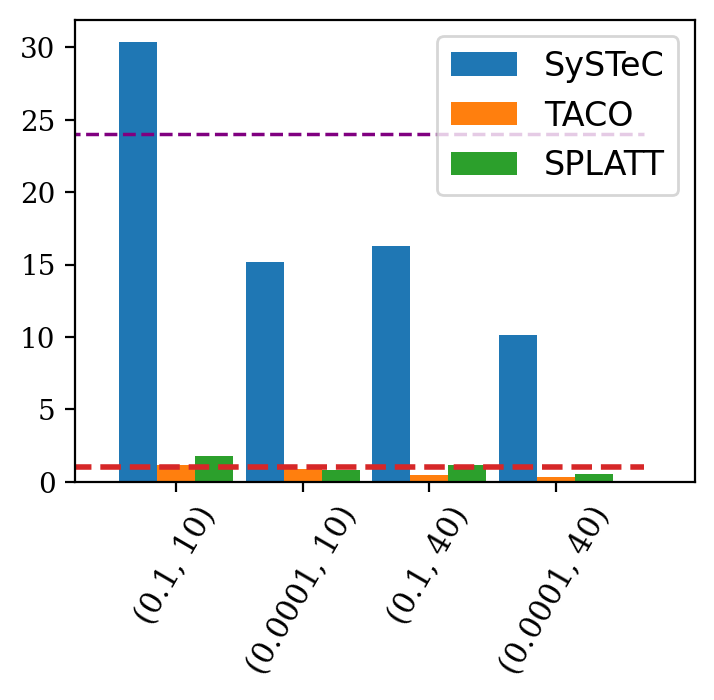
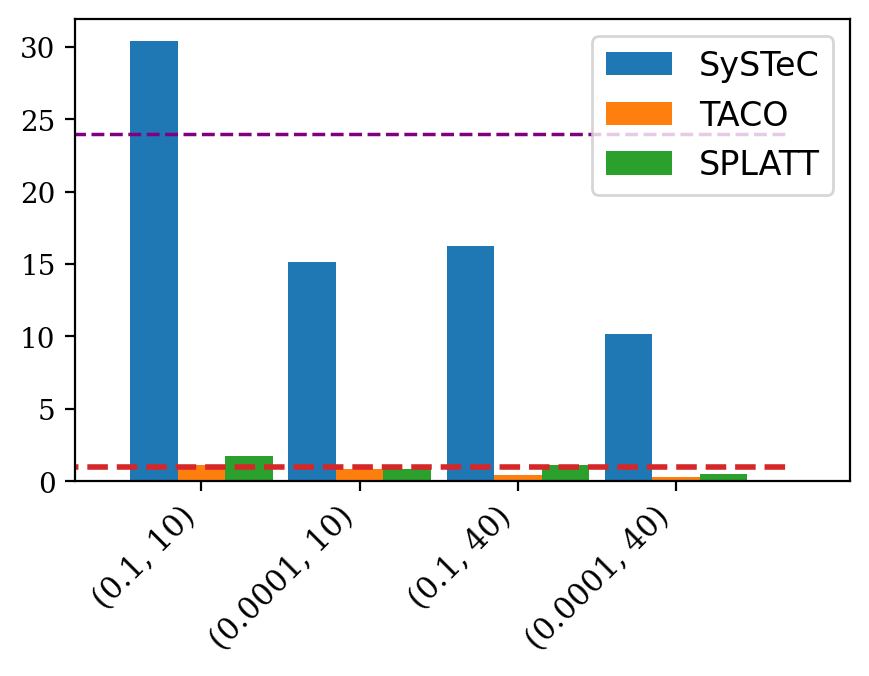
roughly good

diff --git a/kernels/cgo_chart.py b/kernels/cgo_chart.py
@@ -77,6 +77,7 @@ def make_grouped_bar_chart(labels, x_axis, data, colors = None, labeled_groups =
         ax.set_xlabel(x_label, fontsize=14)
     ax.set_xticks(x + width * (len(labels) - 1)/2, x_axis)
     ax.tick_params(axis='x', which='major', labelsize=11, labelrotation=60, labelfontfamily=fontfamily)
+    ax.set_xticklabels(ax.get_xticklabels(), rotation = 45, ha="right")
     ax.tick_params(axis='y', labelfontfamily=fontfamily, labelsize=10)
     if legend_labels:
         ax.legend(legend_labels, loc='upper right', ncols=1, fontsize=12)
@@ -102,7 +103,7 @@ all_formats_chart("ssymv/cgo_ssymv_results.json", use_suitesparse_name, "ssymv_f
                 "Speedup",
                 "Matrix Name",
                 ["SySTeC", "TACO", "MKL"],
-                expected_speedup = 1, width=6)
+                expected_speedup = 1, width=16)
 
 all_formats_chart("ssyrk/cgo_ssyrk_results.json", use_suitesparse_name, "ssyrk_ref", "ssyrk_opt",
                 ["ssyrk_opt"],  
@@ -111,7 +112,7 @@ all_formats_chart("ssyrk/cgo_ssyrk_results.json", use_suitesparse_name, "ssyrk_r
                 "Speedup",
                 "Matrix Name",
                 ["SySTeC"],
-                expected_speedup = 2, width=6)
+                expected_speedup = 2, width=16)
 
 all_formats_chart("syprd/cgo_syprd_results.json", use_suitesparse_name, "syprd_ref", "syprd_opt",
                 ["syprd_opt", "syprd_taco"],  
@@ -120,7 +121,7 @@ all_formats_chart("syprd/cgo_syprd_results.json", use_suitesparse_name, "syprd_r
                 "Speedup",
                 "Matrix Name",
                 ["SySTeC", "TACO"],
-                expected_speedup = 2, width=6)
+                expected_speedup = 2, width=16)
 
 all_formats_chart("ttm/cgo_ttm_results.json", use_sparsity_rank, "ttm_finch_ref", "ttm_finch_opt",
                 ["ttm_finch_opt", "ttm_taco"],  
@@ -130,7 +131,7 @@ all_formats_chart("ttm/cgo_ttm_results.json", use_sparsity_rank, "ttm_finch_ref"
                 "Sparsity, Numerical Rank",
                 ["SySTeC", "TACO"],
                 ordered = False,
-                width = 6,
+                width = 8,
                 expected_speedup = 2)
 
 all_formats_chart("mttkrp/cgo_mttkrp_dim3.json", use_sparsity_rank, "mttkrp_finch_ref", "mttkrp_finch_opt",
@@ -141,7 +142,7 @@ all_formats_chart("mttkrp/cgo_mttkrp_dim3.json", use_sparsity_rank, "mttkrp_finc
                 "", #"Sparsity, Numerical Rank",
                 [], # ["SySTeC", "TACO", "SPLATT"], 
                 ordered = False,
-                width = 4,
+                width = 5,
                 expected_speedup = 2)
 
 all_formats_chart("mttkrp/cgo_mttkrp_dim4.json", use_sparsity_rank, "mttkrp_finch_ref", "mttkrp_finch_opt",
@@ -152,7 +153,7 @@ all_formats_chart("mttkrp/cgo_mttkrp_dim4.json", use_sparsity_rank, "mttkrp_finc
                 "", #"Sparsity, Numerical Rank",
                 [], # ["SySTeC", "TACO", "SPLATT"],
                 ordered = False,
-                width = 4,
+                width = 5,
                 expected_speedup = 6)
 
 all_formats_chart("mttkrp/cgo_mttkrp_dim5.json", use_sparsity_rank, "mttkrp_finch_ref", "mttkrp_finch_opt",
@@ -163,7 +164,7 @@ all_formats_chart("mttkrp/cgo_mttkrp_dim5.json", use_sparsity_rank, "mttkrp_finc
                 "", #"Sparsity, Numerical Rank",
                 ["SySTeC", "TACO", "SPLATT"],
                 ordered = False,
-                width = 4,
+                width = 5,
                 expected_speedup = 24)
 
 # all_formats_chart("mttkrp/cgo_mttkrp_results_sparsity.json", use_sparsity, "mttkrp_finch_ref", "mttkrp_finch_opt",
